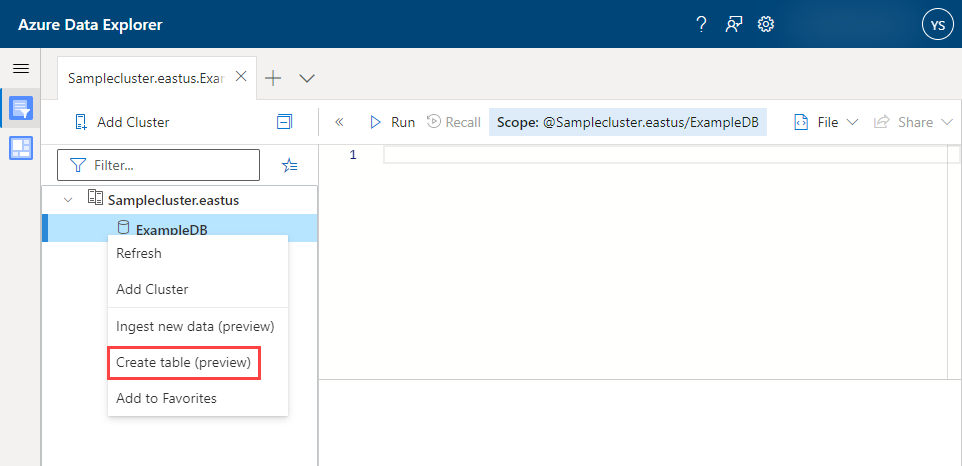
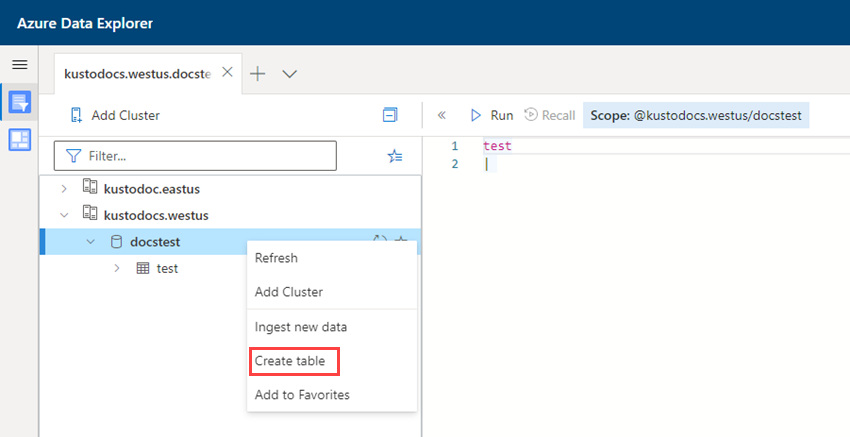
one click table GA

diff --git a/data-explorer/one-click-table.md b/data-explorer/one-click-table.md
@@ -9,7 +9,7 @@ ms.topic: how-to
 ms.date: 09/06/2020
 ---
 
-# Create a table in Azure Data Explorer (preview)
+# Create a table in Azure Data Explorer
 
 Creating a table is an important step in the process of [data ingestion](ingest-data-overview.md) and [query](write-queries.md) in Azure Data Explorer. After you have [created a cluster and database in Azure Data Explorer](create-cluster-database-portal.md), you can create a table. The following article shows how to create a table and schema mapping quickly and easily using the Azure Data Explorer Web UI. 
 
@@ -21,7 +21,7 @@ Creating a table is an important step in the process of [data ingestion](ingest-
 
 ## Create a table
 
-1. In the left menu of the Web UI, right-click **ExampleDB** which is your database name and select **Create table (preview)**.
+1. In the left menu of the Web UI, right-click on your database name and select **Create table**.
 
     :::image type="content" source="./media/one-click-table/create-table.png" alt-text="Create a table in the Azure Data Explorer Web UI":::
 
